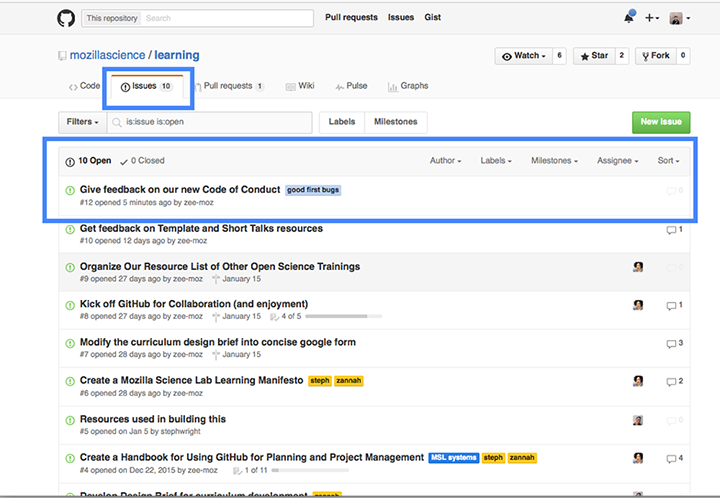
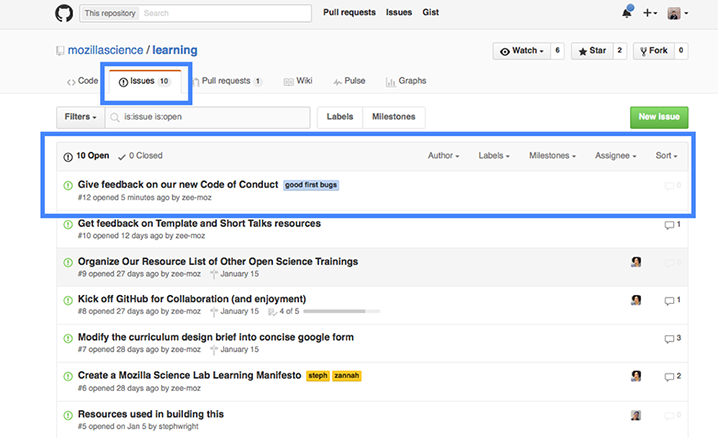
lots of text and photo changes
edited readme exercise, cropped photos for github exercise

diff --git a/writing_readme/index.html b/writing_readme/index.html
@@ -37,7 +37,7 @@
 
       <div class="meta-information">
         <p class="summary">
-          Create an effective, welcoming, detailed readme file for your open project.
+          Create a useful and welcoming readme file for your open project.
         </p>
         <div class="details">
           <time>45 minutes</time>
@@ -49,14 +49,14 @@
         <section>
           <h4>Format</h4>
           <p>
-             This can be done by project collaborators working in groups, or working alone online.
+             This exercise works well as an in-person workshop, or an online exercise. You can work alone, or in a group.
           </p>
         </section>
 
         <section>
           <h4>Target Audience</h4>
           <p>
-            Project Leads
+            Project leads
           </p>
         </section>
 
@@ -72,12 +72,11 @@
       <h2 id="introduction">Introduction</h2>
 
       <p>
-        When you open your project you may have a specific audience in mind (software developers, other researchers in your field) but actually by working openly you're inviting in everyone, and you may be surprised by who wants to contribute! You may be looking for help with code, but you may find also need designers, technical writers, citizen scientists-- lots of people who are well outside your field of study, with a mix of backgrounds. The readme file clearly communicates key information about your project in clear and simple language that anyone, from almost every background, can understand.</p>
+       When you open your project, you may have a specific audience in mind (for example, software developers or other researchers in your field), but you can reach a much broader community! Lots of people who are outside of field-- designers, technical writers, citizen scientists-- may be interested in your project and have valuable contributions to offer! <strong>Clearly communicating information about your project in simple language is an excellent way to grow and diversify your community.<strong></p>
 
-        <p>The readme is part of a collection of documents (contributing, roadmap, Code of Conduct) that should make everyone (especially potential contributors) feel welcome to your project and encouraged to get involved. The Readme is the first thing anyone sees when the come to the project, so it's one of the most important project documents you will write!</p>
+        <p>The readme file should be one of the first things you add to your project repository. It introduces your project idea and goals. Along with the contributing file, the roadmap, and your Code of Conduct, <strong>the readme file helps welcome, orient, and encourage newcomers to participate.<strong> </p>
 
-        <p>The following steps are designed to help you clarify your project description and goals, and communicate clearly. First, you'll use Open Canvas to help define and organize the goals, potential value, and needs for your project. Then you'll write a readme and test it for clarity of language, using a tool that encourages you to communicate using only the ten hundred most common words in the English language.</p>
-</p>
+        <p>The following steps are designed to help you create an effective readme file. First, you'll use a tool called Open Canvas to help define and organize key information about your project. Then you'll write a readme file and test it for clarity, using a tool that encourages you to communicate in simple language.</p>
 
       <h2 id="steps-to-complete">Steps to Complete</h2>
 
@@ -86,7 +85,7 @@
         <li>
           <h1>Create an Open Canvas for your project</h1>
           <p>
-            Open Canvas is a tool that is adapted from Lean Canvas, a one-page structure used for describing a start-up business project. Open Canvas helps you state clearly the problem you are trying to solve, the solution you propose, and what is especially valuable about your open project. It also helps you define your users and contributors, measurements of success, and the resources you'll need.
+            Open Canvas is adapted from Lean Canvas, a one-page format used for describing a start-up business project. Open Canvas helps you clarify the problem you aim to solve, the solution you propose, and what is especially valuable about your open project. It also helps you define your users and contributors, measurements of success, and any resources you'll need.
           </p>
             <img src="../handouts/img/open_canvas_details.jpg">
             <p> Here is an example of an Open Canvas grid filled in for the Mozilla Science Lab's Paper Badger Project </P>
@@ -96,14 +95,14 @@
         <li>
           <h1>Write</h1>
           <p>
-            Using the information you gathered in the Open Canvas exercise, write your Readme.md file. Be sure to:
+            Using the information you gathered in the Open Canvas exercise, write your readme file. Be sure to:
             <ol>
-            <li>Say hello and welcome people to the project.</li>
+            <li>Say hello! Welcome people to the project.</li>
             <li>Show what you're doing, for who, and why. </li>
-            <li>Explain what makes your project special, useful, exciting. How is it different or new? </li>
-            <li>Show how to get started using or developing on your project</li>
-            <li> and state what resources and contributions you're looking for</li>
-            <li>Finally point to outher resources: especially your contributing.md file, your roadmap.</li>
+            <li>Explain what makes your project special, useful, exciting! </li>
+            <li>Show how to get started using or contribution to the project</li>
+            <li>State what resources and contributions you're looking for</li>
+            <li>Point to other key resources, such as a contributing.md file and a roadmap.</li>
           </ol>
           </p>
         </li>
@@ -111,15 +110,15 @@
         <li>
           <h1>Remove Jargon!</h1>
           <p>
-            Take the section of your readme where you describe your project (what you're doing, for who, and why), and drop it into the Up-Goer 5 text editor. Try to communicate your project using only those common words. This is a great way to identify technical language that may be confusing to newcomers, and try out expressing yourself as simple language as possible. Here's an example of of a rocket ship diagram communciated in common language.
+            Copy your new project description (what you're doing, for who, and why) and drop it into the Up-Goer 5 text editor. Try to rewrite the description using only allowed words. This is a great way to identify technical language will confuse newcomers. For reference, <a href= "http://xkcd.com/1133/">here's an example of a rocket ship diagram communciated in common language.</a>
 
-            In your final readme text, you don't need to stick only to these most common words--if you do, you may find that your project description becomes overly simplified. This step is designed to encourage you to get rid of any jargon.
+            <strong>In your final readme text, you don't need to restrict yourself to the most common words--if you do, your project description may become overly simplified and limited. But do use what you've learned from this exercise to keep your readme jargon-free.</strong>
           </p>
         </li>
         <li>
           <h1>Re-write</h1>
           <p>
-            Re-write your entire readme in clear language and define all terms. Share your readme with your public.
+            Re-write your entire readme in clear language and define all terms. Share your new readme in your project repository.
         </li>
       </ol>
 
@@ -128,7 +127,21 @@
         <section class="term">
           <h3>Readme file</h3>
           <p>
-            The readme file is a document included in a project's collection working files that introduces the project to the public and any potential contributors.
+             a document included in a project's collection of working files that introduces the project to the public and any potential contributors.
+          </p>
+        </section>
+
+        <section class="term">
+          <h3>jargon</h3>
+          <p>
+             a type of language, especially vocabulary, that is particular to a certian trade or discipline, and is not understood by anyone outside that discipline.
+          </p>
+        </section>
+
+        <section class="term">
+          <h3>repository or repo</h3>
+          <p>
+             a collection of documents related to your project, in which you create and save new code or content.
           </p>
         </section>
 

diff --git a/github_for_collaboration/index.html b/github_for_collaboration/index.html
@@ -96,18 +96,17 @@
         <li>
           <h1>Make a Label</h1>
           <p>
-            As project lead: Make a new label. Click the "Issues" tab, then look for the labels tab, just to the right of the "filter" box. Add a label called "good first bugs."
+            As project lead: Make a new label. Click the "Issues" tab, then look for the labels tab, just to the right of the "filter" box. Add a label called "good first bugs."  </p>
             <img src="../handouts/img/repo-labels.png"></img>
-          </p>
         </li>
 
         <!-- Step 3 -->
         <li>
           <h1>Make An Issue</h1>
           <p>
-            As project lead: create an issue in your own repo to document a "good first bug". A good first bug is something simple that a new contributor can work on, to give contribution and this way of working a try. It's work that's useful to the project but relatively easy, not so difficult as to be overwhelming or discouraging for someone new to your project. A good first bug is as much an opportunity to learn the workflow as it is to make changes to the project. An example of a good first bug for this exercise: fix a typo in the readme, add a badge, add a science fox, etc.
+            As project lead: create an issue in your own repo to document a "good first bug". A good first bug is something simple that a new contributor can work on, to give contribution and this way of working a try. It's work that's useful to the project but relatively easy, not so difficult as to be overwhelming or discouraging for someone new to your project. A good first bug is as much an opportunity to learn the workflow as it is to make changes to the project. An example of a good first bug for this exercise: fix a typo in the readme, add a badge, add a science fox, etc.    </p>
             <img src="../handouts/img/repo-issues.png"></img>
-          </p>
+
         </li>
 
         <!-- Step 4 -->
@@ -205,7 +204,7 @@
         <section class="term">
           <h3>repository, or repo</h3>
           <p>
-           a collection of documents where you are working and saving your work
+           a collection of documents related to your project, in which you create and save new code or content. 
           </p>
         </section>
 
